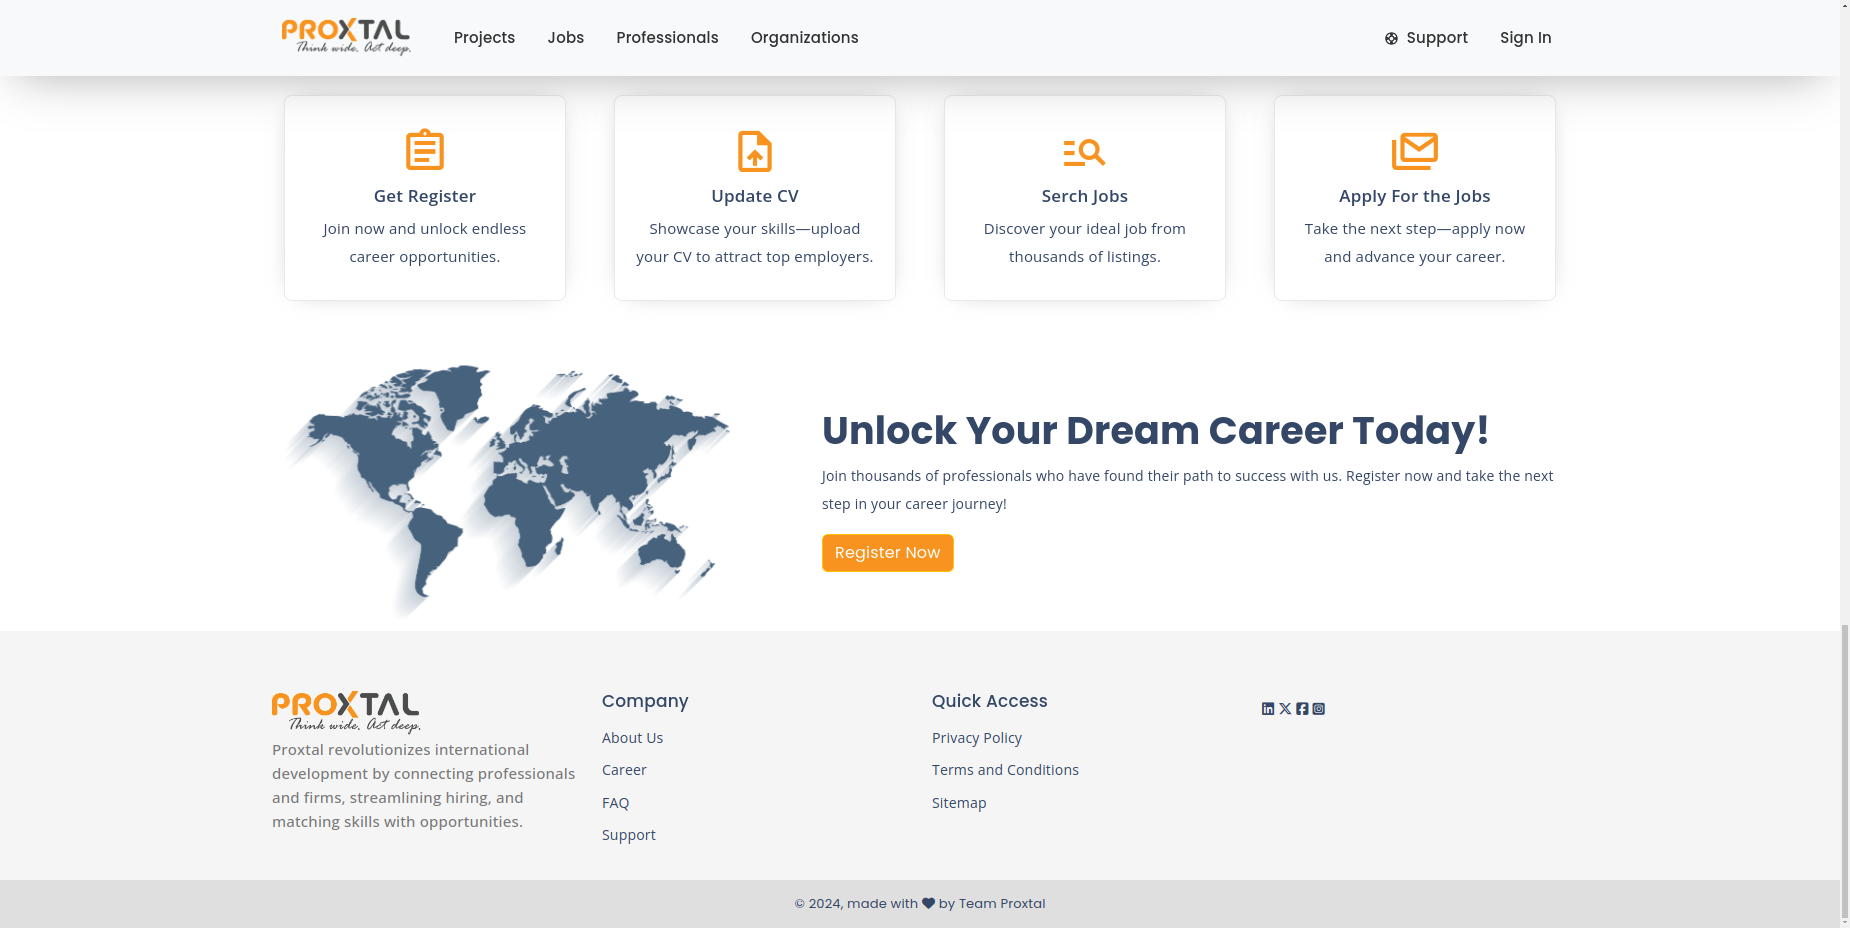
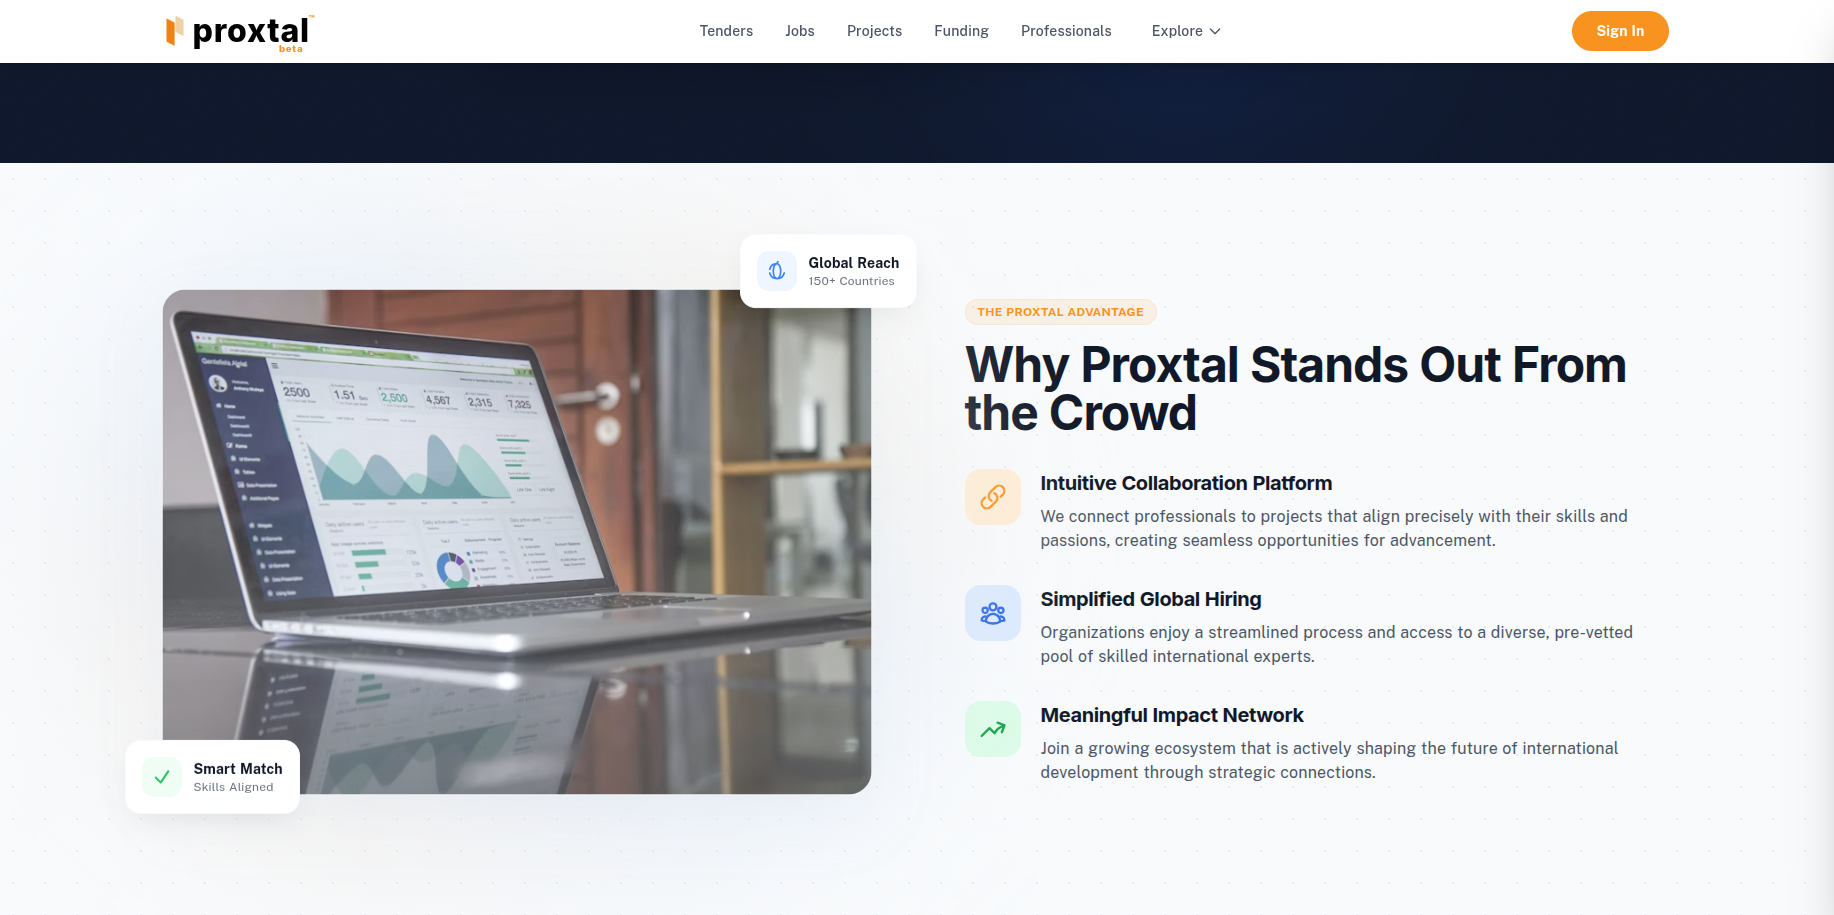
content modified

diff --git a/src/components/visual/HomeComponents/FeaturedProjects.js b/src/components/visual/HomeComponents/FeaturedProjects.js
@@ -5,32 +5,52 @@ import { HiExternalLink } from "react-icons/hi";
 import { Link } from "react-router-dom";
 
 const featured = [
+  
   {
     number: "01",
-    name: "ZipDJ",
-    tagline: "Premium DJ Pool Platform",
-    desc: "A DJ pool for USA and Canada with top music, advanced search, subscription plans, and a high-quality download library.",
-    tags: ["Laravel", "PHP", "MySQL", "Livewire"],
-    liveUrl: "https://www.zipdj.com",
-    thumbnail: "assets/projects/zipdj.jpeg",
+    name: "AwareNow",
+    tagline: "AI-Powered City Council & School Board Meeting Summaries",
+    desc: "Developed an AI-powered civic intelligence platform that transforms complex local government meeting transcripts into concise, searchable summaries using OpenAI APIs. Architected a scalable backend with Django, PostgreSQL, and Celery for asynchronous processing of long-form content. Focused on performance optimization, modular design, and reliable AI task execution..",
+    tags: ["Django", "OpenAI", "Redis", "Celery", "React", "PostgreSQL"],
+    liveUrl: "https://www.awarenow.ai/",
+    thumbnail: "assets/projects/awarenow.png",
   },
   {
     number: "02",
-    name: "Proxtal",
-    tagline: "Professional Hiring Platform",
-    desc: "A platform bridging job seekers and employers with advanced filtering, streamlined hiring, and user-friendly job postings.",
-    tags: ["React", "Django", "PostgreSQL"],
-    liveUrl: "https://proxtal.com/",
-    thumbnail: "assets/projects/proxtal.png",
+    name: "Namaste Westside",
+    tagline: "AI-Enabled Travel Itinerary & Event Management Platform",
+    desc: "Built an AI-powered travel engine using Dialogflow CX for multi-turn conversations and contextual intent handling. Generated dynamic, personalized itineraries through backend fulfillment services and scalable REST APIs with an optimized React frontend.",
+    tags: ["Django", "React Js", "Dialogflow CX", "OpenAI", "PostgreSQL"],
+    liveUrl: "http://20.197.2.65:8181/",
+    thumbnail: "assets/projects/namaste.png",
   },
   {
     number: "03",
-    name: "Aviva Health",
-    tagline: "Life Insurance Suite",
-    desc: "A scalable life insurance application that simplifies agent management, policy underwriting, and client onboarding.",
-    tags: ["Laravel", "PHP", "MySQL"],
-    liveUrl: "https://aviva.health/",
-    thumbnail: "assets/projects/aviva_health.png",
+    name: "Atompass",
+    tagline: "Your Digital Life Secured Forever",
+    desc: "Led the development of Atompass, a secure password manager designed with a security-first architecture. Implemented encrypted credential storage and robust authentication mechanisms to ensure user data protection. Owned the project end-to-end from concept to deployment.",
+    tags: ["Node.js", "Express", "PostgreSQL", "React"],
+    liveUrl: "https://atompass.com/",
+    thumbnail: "assets/projects/atompass.png",
+  },
+  {
+    number: "04",
+    name: "Proxtal",
+    tagline: "A user-friendly platform connecting international development professionals with impactful projects worldwide.",
+    desc: "Led AI-driven content generation and an intelligent support chatbot to enhance user workflows on a production-grade hiring and collaboration platform for the infrastructure sector. Integrated a professional social networking module, real-time messaging, and event-driven notifications on a scalable, secure, role-based architecture.",
+    tags: ["Laravel", "React", "Mysql", "Tailwind CSS"],
+    liveUrl: "https://proxtal.com/",
+    thumbnail: "assets/projects/proxtal.png",
+  },
+
+  {
+    number: "05",
+    name: "RoleMatch",
+    tagline: "AI-Powered Job Matching Platform",
+    desc: "Built a production-ready personalized AI job matching platform leveraging semantic search and intelligent resume-to-role scoring. Automated multi-source job aggregation to deliver real-time, personalized recommendations.",
+    tags: ["FastAPI", "Streamlit", "LangGraph", "Docker", "Supabase"],
+    liveUrl: "https://role-match.streamlit.app",
+    thumbnail: "assets/projects/role_match.png",
   },
 ];
 

diff --git a/src/utils/AllProjectsData.js b/src/utils/AllProjectsData.js
@@ -1,32 +1,69 @@
+import { DiMysql } from "react-icons/di";
+
 export const AllProjectsData = [
   {
-    name: "ZipDJ: DJ pool",
-    desc: "A DJ pool for USA and Canada with top music, advanced search, and multiple site features.",
+    name: "AwareNow",
+    desc: "AI-Powered City Council & School Board Meeting Summaries.",
+    techStack: ["Django", "OpenAI", "React", "PostgreSQL"],
     githubUrl: "",
-    liveUrl: "https://www.zipdj.com/",
+    liveUrl: "https://www.awarenow.ai/",
     video: "no",
-    thumbnail: "assets/projects/zipdj.jpeg",
+    thumbnail: "assets/projects/awarenow.png",
+  },{
+    name: "Namaste Westside",
+    desc: "AI-Enabled Travel Itinerary & Event Management Platform.",
+    techStack: ["Django", "OpenAI", "React", "PostgreSQL"],
+    githubUrl: "",
+    liveUrl: "http://20.197.2.65:8181/",
+    video: "no",
+    thumbnail: "assets/projects/namaste.png",
+  },{
+    name: "Atompass",
+    desc: "Your Digital Life Secured Forever with military-grade encryption.",
+    techStack: ["Node.js", "Express", "PostgreSQL", "React"],
+    githubUrl: "",
+    liveUrl: "https://www.atompass.com/",
+    video: "no",
+    thumbnail: "assets/projects/atompass.png",
   },
   {
     name: "Proxtal",
-    desc: "A simple webpage to visualize various sorting algorithms for better understanding",
-    techStack: ["HTML5", "CSS3", "Javascript"],
+    desc: "A user-friendly platform connecting international development professionals with impactful projects worldwide",
+    techStack: ["Laravel", "React", "Mysql", "Tailwind CSS"],
     liveUrl: "https://proxtal.com/",
     video: "no",
     thumbnail: "assets/projects/proxtal.png",
   },
   {
-    name: "Insurance Application for Health",
-    desc: "Aviva is a scalable life insurance suite that simplifies agent management and underwriting",
-    techStack: ["HTML5", "CSS3", "Javascript"],
-    liveUrl: "https://aviva.health/",
+    name: "RoleMatch",
+    desc: "AI-Powered Job Matching Platform",
+    techStack: ["FastAPI", "Streamlit", "LangGraph", "Docker"],
+    liveUrl: "https://role-match.streamlit.app/",
     video: "no",
-    thumbnail: "assets/projects/aviva_health.png",
+    thumbnail: "assets/projects/role_match.png",
   },
+  {
+    name: "AI Chatbot",
+    desc: "Mama- Your Friendly AI Chatbot",
+    techStack: ["Langchain", "Streamlit"],
+    liveUrl: "https://ardhendu-chatbot.streamlit.app/",
+    video: "no",
+    thumbnail: "assets/projects/chatbot.png",
+  },
+  {
+    name: "ZipDJ: DJ pool",
+    desc: "A DJ pool for USA and Canada with top music, advanced search, and multiple site features.",
+    techStack: ["Laravel", "Mysql", "tailwind CSS", "ReactJs"],
+    githubUrl: "",
+    liveUrl: "https://www.zipdj.com/",
+    video: "no",
+    thumbnail: "assets/projects/zipdj.jpeg",
+  },
+  
   {
     name: "Alumni Portal",
     desc: "Developed an Alumni Portal for networking, event updates, job postings, and voting features",
-    techStack: ["HTML5", "CSS3", "Javascript"],
+    techStack: ["Laravel", "Mysql", "Bootstrap"],
     liveUrl: "https://alumni.alumnetworks.com/",
     video: "no",
     thumbnail: "assets/projects/alumni.png",
@@ -34,7 +71,7 @@ export const AllProjectsData = [
   {
     name: "Admin Portal",
     desc: "Developed an Admin Portal for managing institute details and tracking alumni engagement",
-    techStack: ["HTML5", "CSS3", "Javascript"],
+    techStack: ["Laravel", "Mysql", "Bootstrap"],
     liveUrl: "https://admin.alumnetworks.com/",
     video: "no",
     thumbnail: "assets/projects/admin.png",
@@ -42,7 +79,7 @@ export const AllProjectsData = [
   {
     name: "PortFolio",
     desc: "My Portfolio website showcasing my Skills and Projects",
-    techStack: ["ReactJs", "Redux", "Tailwind CSS", "Framer Motion"],
+    techStack: ["ReactJs", "Tailwind CSS", "Framer Motion"],
     liveUrl: "https://ardhendu-portfolio.netlify.app/",
     video: "no",
     thumbnail: "assets/projects/portfolio.webp",

diff --git a/src/components/visual/HomeComponents/Experience.js b/src/components/visual/HomeComponents/Experience.js
@@ -5,44 +5,35 @@ import { HiOutlineBriefcase } from "react-icons/hi";
 function Experience() {
   const experience = [
     {
+      company: "Auroinfo Private Limited",
+      role: "Full Stack Developer",
+      duration: "Dec 2024 – present",
+      type: "Full-time",
+    },
+    {
       company: "AlumNetworks Private Limited",
       role: "Full Stack Developer",
-      duration: "Jun 2023 – Present",
+      duration: "Jun 2023 – Nov 2024",
       type: "Full-time",
-      highlights: [
-        "Built a Ticketing system for a chatbot handling out-of-office hours — 34% more customer engagement.",
-        "Integrated third-party systems: CRM, RPA bots, SendGrid, Google Cloud Functions & Storage.",
-        "Contributed to Anomaly Detection, custom widgets, webform, and logging features.",
-        "Developed custom widgets for support agents.",
-      ],
     },
     {
       company: "Hyscaler",
       role: "Jr. Software Developer",
       duration: "Feb 2023 – May 2023",
       type: "Full-time",
-      highlights: [
-        "Worked on a Hospital Management ERP system using Odoo.",
-        "Gained deep understanding of ERP architecture and workflows.",
-      ],
     },
     {
       company: "Hyscaler",
       role: "Jr. Technical Programmer",
       duration: "Jul 2022 – Jan 2023",
       type: "Full-time",
-      highlights: [
-        "Developed modules for Hospital Management ERP using Odoo.",
-      ],
     },
     {
       company: "Hyscaler",
       role: "Software Developer Trainee",
       duration: "Apr 2022 – Jun 2022",
       type: "Internship",
-      highlights: [
-        "Onboarded to ERP systems and contributed to initial development tasks.",
-      ],
+      
     },
   ];
 
@@ -93,14 +84,14 @@ function Experience() {
                     </span>
                   </div>
                 </div>
-                <ul className="space-y-1.5">
+                {/* <ul className="space-y-1.5">
                   {exp.highlights.map((h, j) => (
                     <li key={j} className="flex items-start gap-2 text-subtle text-sm leading-relaxed">
                       <span className="text-accent mt-1.5 flex-shrink-0 text-xs">▹</span>
                       {h}
                     </li>
                   ))}
-                </ul>
+                </ul> */}
               </div>
             </motion.div>
           ))}

diff --git a/src/components/visual/HomeComponents/Skills.js b/src/components/visual/HomeComponents/Skills.js
@@ -2,8 +2,14 @@ import { motion } from "framer-motion";
 import React from "react";
 import {
   SiJavascript, SiReact, SiPython, SiMysql, SiPostgresql,
-  SiDjango, SiPhp, SiLaravel, SiTailwindcss, SiGit,
+  SiDjango, SiLaravel, SiTailwindcss, SiGit,
   SiDocker, SiOpenai, SiFastapi, SiRedis, SiTypescript,
+  SiNodedotjs,
+  SiBootstrap,
+  SiVuedotjs,
+  SiHuggingface,
+  SiLangchain,
+  SiOperagx,
 } from "react-icons/si";
 import { FaBrain } from "react-icons/fa";
 
@@ -14,28 +20,8 @@ const skillGroups = [
     skills: [
       { name: "OpenAI / GPT", icon: <SiOpenai /> },
       { name: "LLM Integration", icon: <FaBrain /> },
-      { name: "FastAPI", icon: <SiFastapi /> },
-      { name: "Python", icon: <SiPython /> },
-    ],
-  },
-  {
-    label: "Frontend",
-    color: "#a78bfa",
-    skills: [
-      { name: "React JS", icon: <SiReact /> },
-      { name: "JavaScript", icon: <SiJavascript /> },
-      { name: "TypeScript", icon: <SiTypescript /> },
-      { name: "Tailwind CSS", icon: <SiTailwindcss /> },
-    ],
-  },
-  {
-    label: "Backend",
-    color: "#34d399",
-    skills: [
-      { name: "Django", icon: <SiDjango /> },
-      { name: "Laravel", icon: <SiLaravel /> },
-      { name: "PHP", icon: <SiPhp /> },
-      { name: "Redis", icon: <SiRedis /> },
+      { name: "LangGraph", icon: <SiLangchain /> },
+      { name: "RAG", icon: <SiOperagx /> },
     ],
   },
   {
@@ -48,6 +34,32 @@ const skillGroups = [
       { name: "Git", icon: <SiGit /> },
     ],
   },
+  {
+    label: "Backend",
+    color: "#34d399",
+    skills: [
+      { name: "Python", icon: <SiPython /> },
+      { name: "FastAPI", icon: <SiFastapi /> },
+      { name: "Django", icon: <SiDjango /> },
+      { name: "Laravel", icon: <SiLaravel /> },
+      { name: "Node.js", icon: <SiNodedotjs /> },
+      { name: "Redis", icon: <SiRedis /> },
+    ],
+  },
+  {
+    label: "Frontend",
+    color: "#a78bfa",
+    skills: [
+      { name: "React JS", icon: <SiReact /> },
+      { name: "Vue JS", icon: <SiVuedotjs /> },
+      { name: "JavaScript", icon: <SiJavascript /> },
+      { name: "TypeScript", icon: <SiTypescript /> },
+      { name: "Bootstrap", icon: <SiBootstrap /> },
+      { name: "Tailwind CSS", icon: <SiTailwindcss /> },
+    ],
+  },
+  
+  
 ];
 
 function Skills() {
